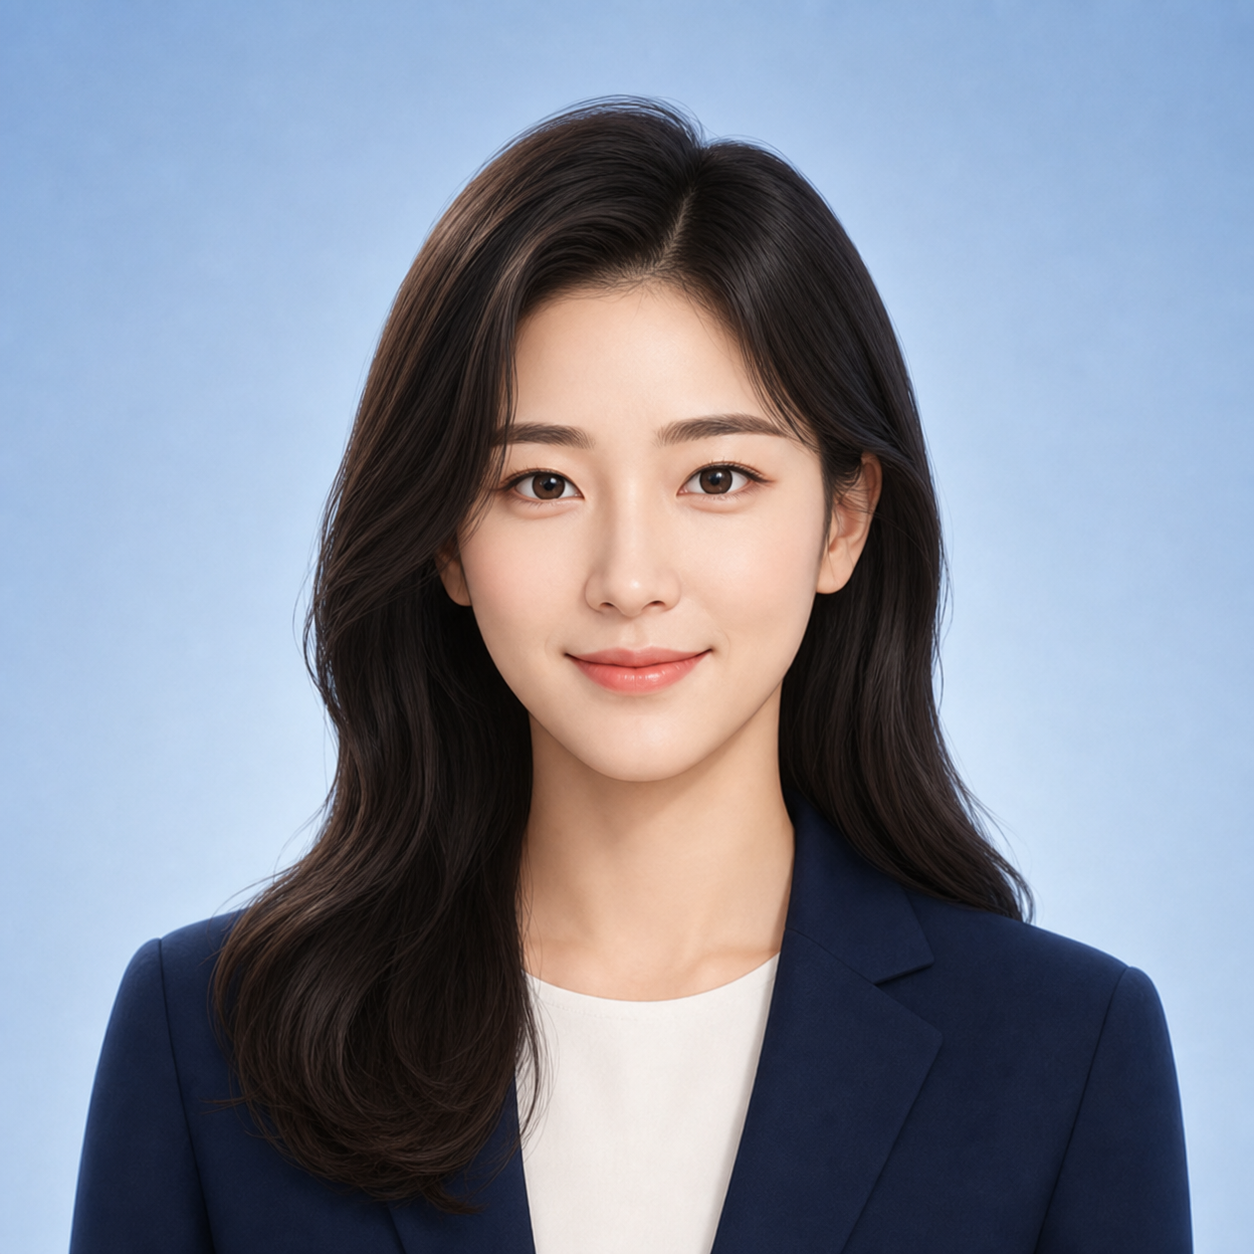
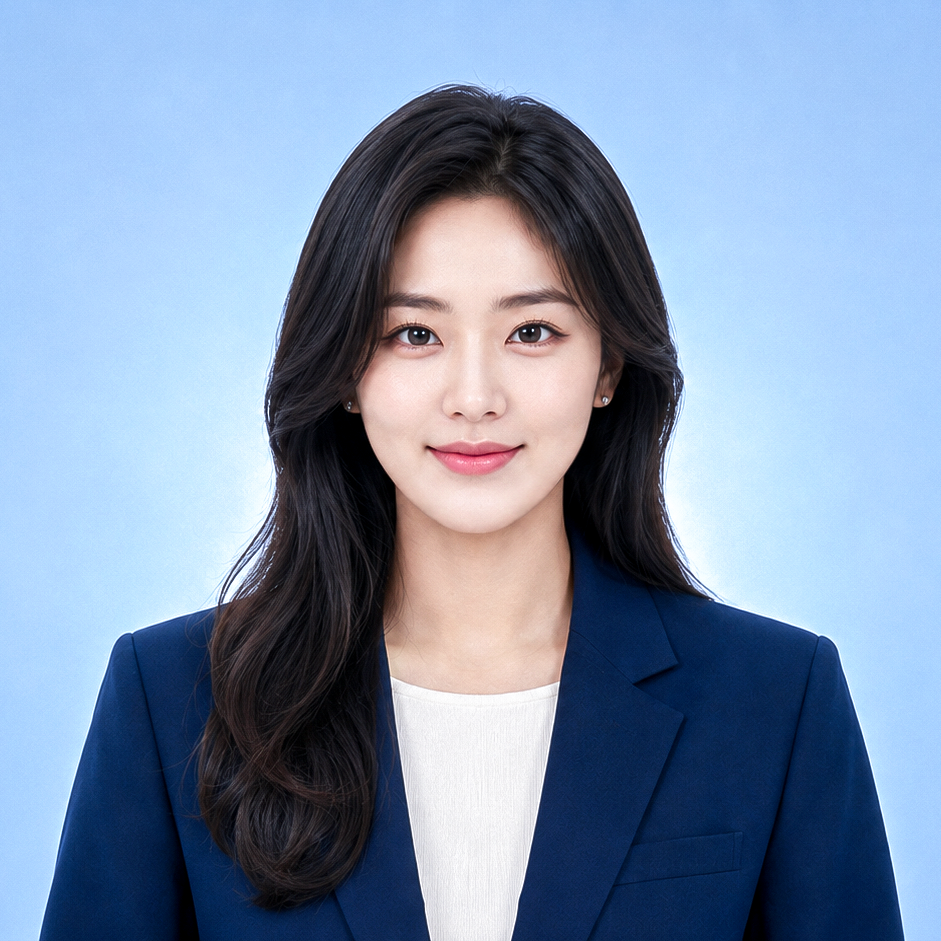
feat: 진로 코치 이미지 변경

diff --git a/apps/web/src/components/scenario/ScenarioAudioSettingsDialog.tsx b/apps/web/src/components/scenario/ScenarioAudioSettingsDialog.tsx
@@ -136,7 +136,7 @@ export function ScenarioAudioSettingsDialog({
               <div>
                 <span>SCENARIO SETTINGS</span>
                 <h2 id={titleId}>환경 설정</h2>
-                <p id={descriptionId}>사운드와 함께할 직무코치를 내게 맞게 설정해보세요.</p>
+                <p id={descriptionId}>사운드와 함께할 진로 코치를 내게 맞게 설정해보세요.</p>
               </div>
             </header>
 
@@ -176,7 +176,7 @@ export function ScenarioAudioSettingsDialog({
                     <Robot weight="fill" />
                   </span>
                   <div>
-                    <label htmlFor={coachVolumeId}>직무코치 음량</label>
+                    <label htmlFor={coachVolumeId}>진로 코치 음량</label>
                     <small>안내와 피드백 음성</small>
                   </div>
                   <output htmlFor={coachVolumeId}>{coachPercent}%</output>
@@ -202,11 +202,11 @@ export function ScenarioAudioSettingsDialog({
               <section className={styles.coachControl}>
                 <div className={styles.coachControlHeading}>
                   <div>
-                    <strong>함께할 직무코치</strong>
+                    <strong>함께할 진로 코치</strong>
                     <small>저장하면 1:1 상담과 시나리오에 함께 적용돼요.</small>
                   </div>
                 </div>
-                <div className={styles.coachChoices} role="radiogroup" aria-label="직무코치 선택">
+                <div className={styles.coachChoices} role="radiogroup" aria-label="진로 코치 선택">
                   {(["male", "female"] as const).map((candidateId) => {
                     const coach = COACH_PROFILES[candidateId];
                     const selected = coachId === candidateId;

diff --git a/apps/web/src/components/conversation/CoachSelectionDialog.tsx b/apps/web/src/components/conversation/CoachSelectionDialog.tsx
@@ -103,7 +103,7 @@ export function CoachSelectionDialog({
                 className={styles.closeButton}
                 type="button"
                 onClick={onCancel}
-                aria-label="직무코치 선택 닫기"
+                aria-label="진로 코치 선택 닫기"
               >
                 <X weight="bold" aria-hidden="true" />
               </button>
@@ -115,7 +115,7 @@ export function CoachSelectionDialog({
                 YOUR CAREER PARTNER
               </span>
               <h2 id={titleId}>
-                {required ? "함께할 직무코치를 선택해주세요" : "직무코치 변경"}
+                {required ? "함께할 진로 코치를 선택해주세요" : "진로 코치 변경"}
               </h2>
               <p id={descriptionId}>
                 {required
@@ -124,7 +124,7 @@ export function CoachSelectionDialog({
               </p>
             </header>
 
-            <div className={styles.coachGrid} role="radiogroup" aria-label="직무코치">
+            <div className={styles.coachGrid} role="radiogroup" aria-label="진로 코치">
               {COACH_IDS.map((coachId, index) => {
                 const coach = COACH_PROFILES[coachId];
                 const selected = draftCoachId === coachId;
@@ -167,7 +167,7 @@ export function CoachSelectionDialog({
                 </button>
               ) : null}
               <button className={styles.confirmButton} type="submit" disabled={!draftCoachId}>
-                {required ? "이 코치와 시작하기" : "직무코치 저장"}
+                {required ? "이 코치와 시작하기" : "진로 코치 저장"}
               </button>
             </div>
           </motion.form>

diff --git a/apps/web/src/lib/coachPreference.ts b/apps/web/src/lib/coachPreference.ts
@@ -15,7 +15,7 @@ export const COACH_PROFILES: Record<CoachAvatarId, CoachProfile> = {
   male: {
     id: "male",
     name: "이성현",
-    role: "AI 직무코치",
+    role: "AI 진로 코치",
     description: "차분하게 방향을 정리하고 실행 계획을 함께 세워요.",
     portraitSrc: "/coach/lee-seonghyeon.webp",
     idleVideoSrc: "/avatar-idle-720p.mp4",
@@ -23,7 +23,7 @@ export const COACH_PROFILES: Record<CoachAvatarId, CoachProfile> = {
   female: {
     id: "female",
     name: "임예원",
-    role: "AI 직무코치",
+    role: "AI 진로 코치",
     description: "세심하게 이야기를 듣고 강점과 가능성을 함께 찾아요.",
     portraitSrc: "/coach/im-yewon.webp",
     idleVideoSrc: null,

diff --git a/apps/web/src/components/scenario/DashboardHeader.tsx b/apps/web/src/components/scenario/DashboardHeader.tsx
@@ -234,7 +234,7 @@ export function DashboardHeader({
               <GearSix weight="duotone" aria-hidden="true" />
               <span>
                 <strong>설정</strong>
-                <small>사운드와 직무코치를 조정해요</small>
+                <small>사운드와 진로 코치를 조정해요</small>
               </span>
             </button>
             <button

diff --git a/apps/web/src/components/conversation/ConversationHeader.tsx b/apps/web/src/components/conversation/ConversationHeader.tsx
@@ -121,7 +121,7 @@ export function ConversationHeader({ onCoachSettingsOpen }: ConversationHeaderPr
         {onCoachSettingsOpen ? (
           <GlassIconButton
             icon={GearSix}
-            label="직무코치 설정 열기"
+            label="진로 코치 설정 열기"
             onClick={onCoachSettingsOpen}
           />
         ) : null}
